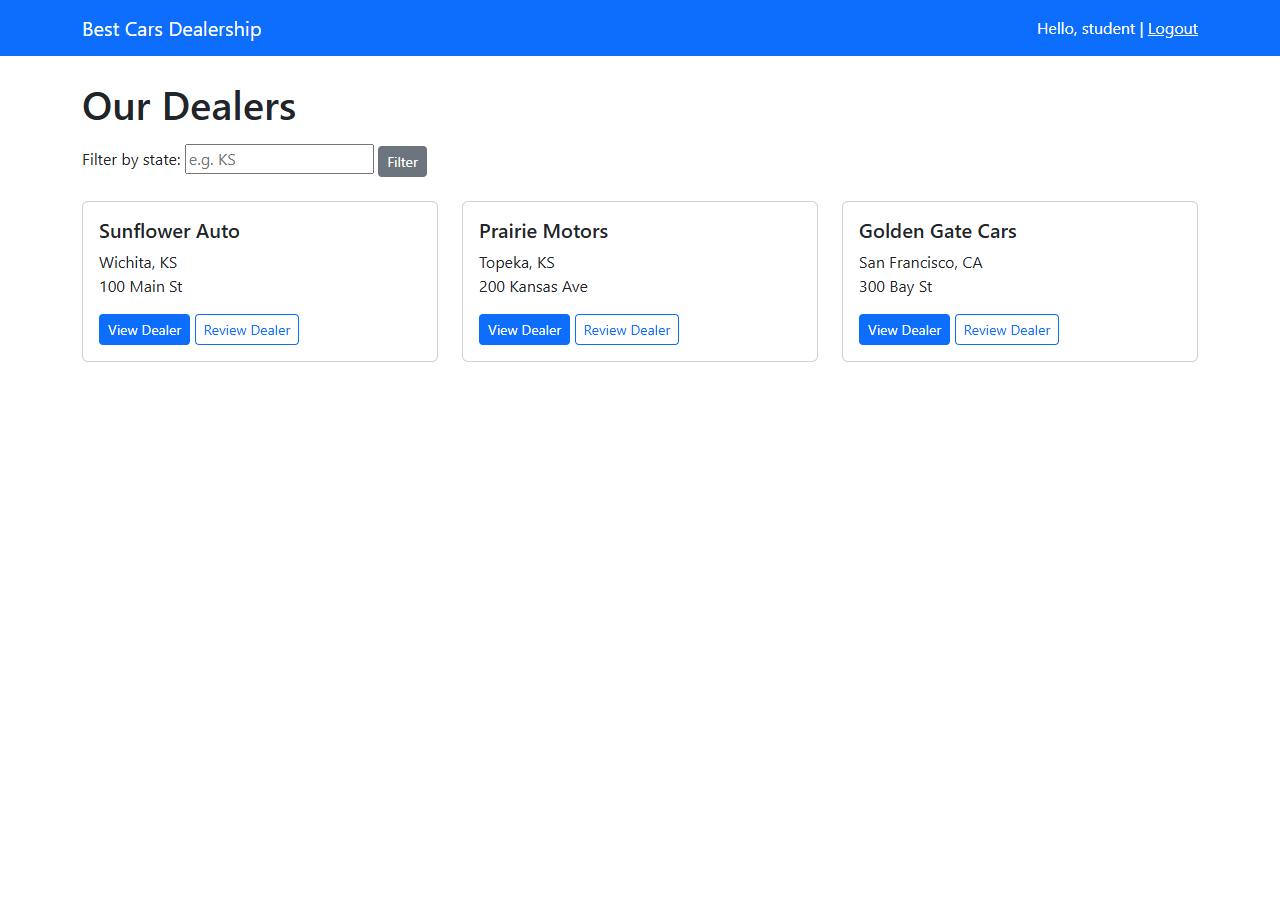
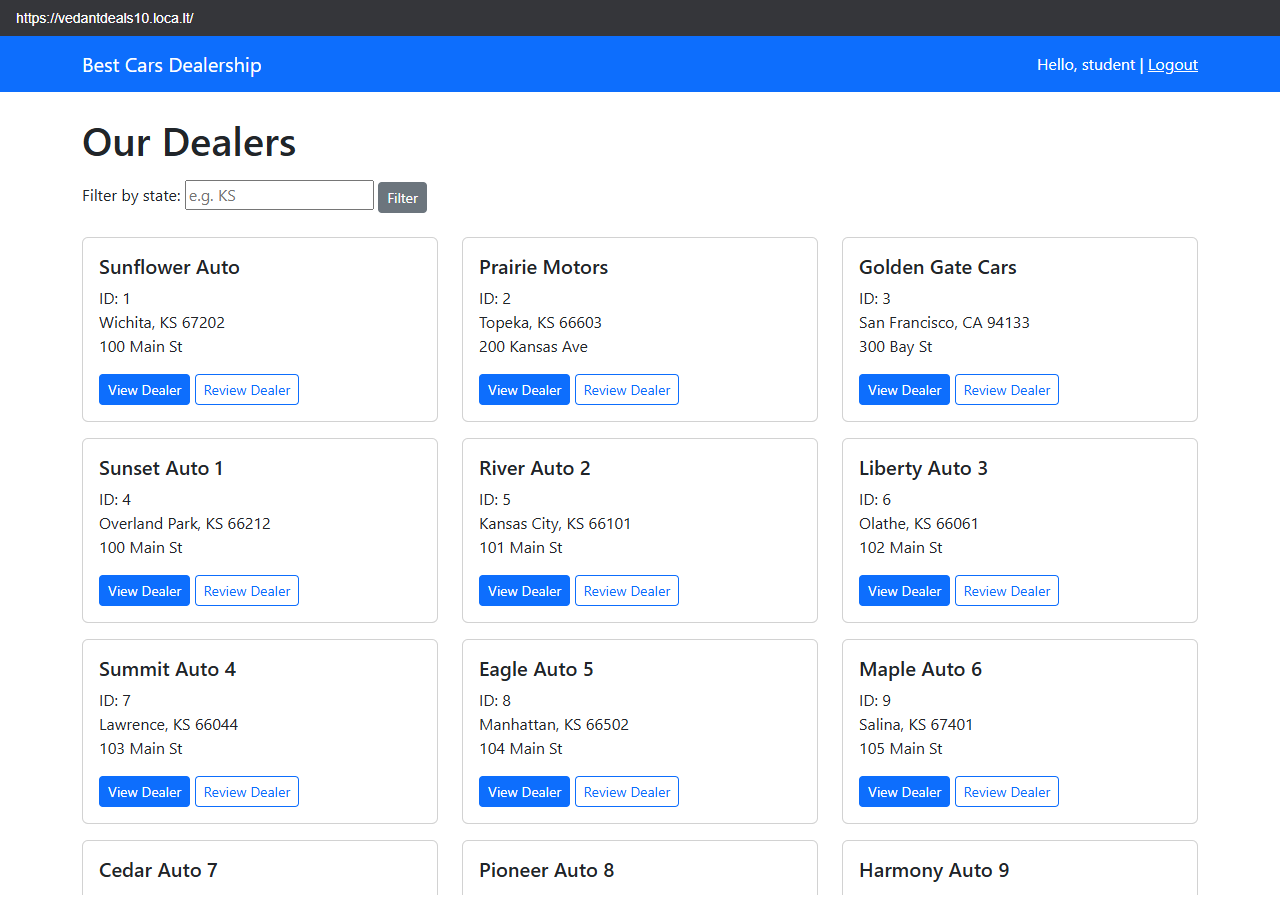
Capstone resubmission: canonical endpoints, tunnel deploy shots, CI evidence

diff --git a/assignment-09-dealership-capstone/server/djangoapp/templates/djangoapp/frame.html b/assignment-09-dealership-capstone/server/djangoapp/templates/djangoapp/frame.html
@@ -5,7 +5,7 @@
 padding:10px 16px;} iframe{width:100%;height:calc(100% - 41px);border:0}</style>
 </head>
 <body>
-<div class="bar">http://localhost:8000{{ path }}</div>
+<div class="bar">https://{{ request.get_host }}{{ path }}</div>
 <iframe src="{{ path }}"></iframe>
 </body>
 </html>
